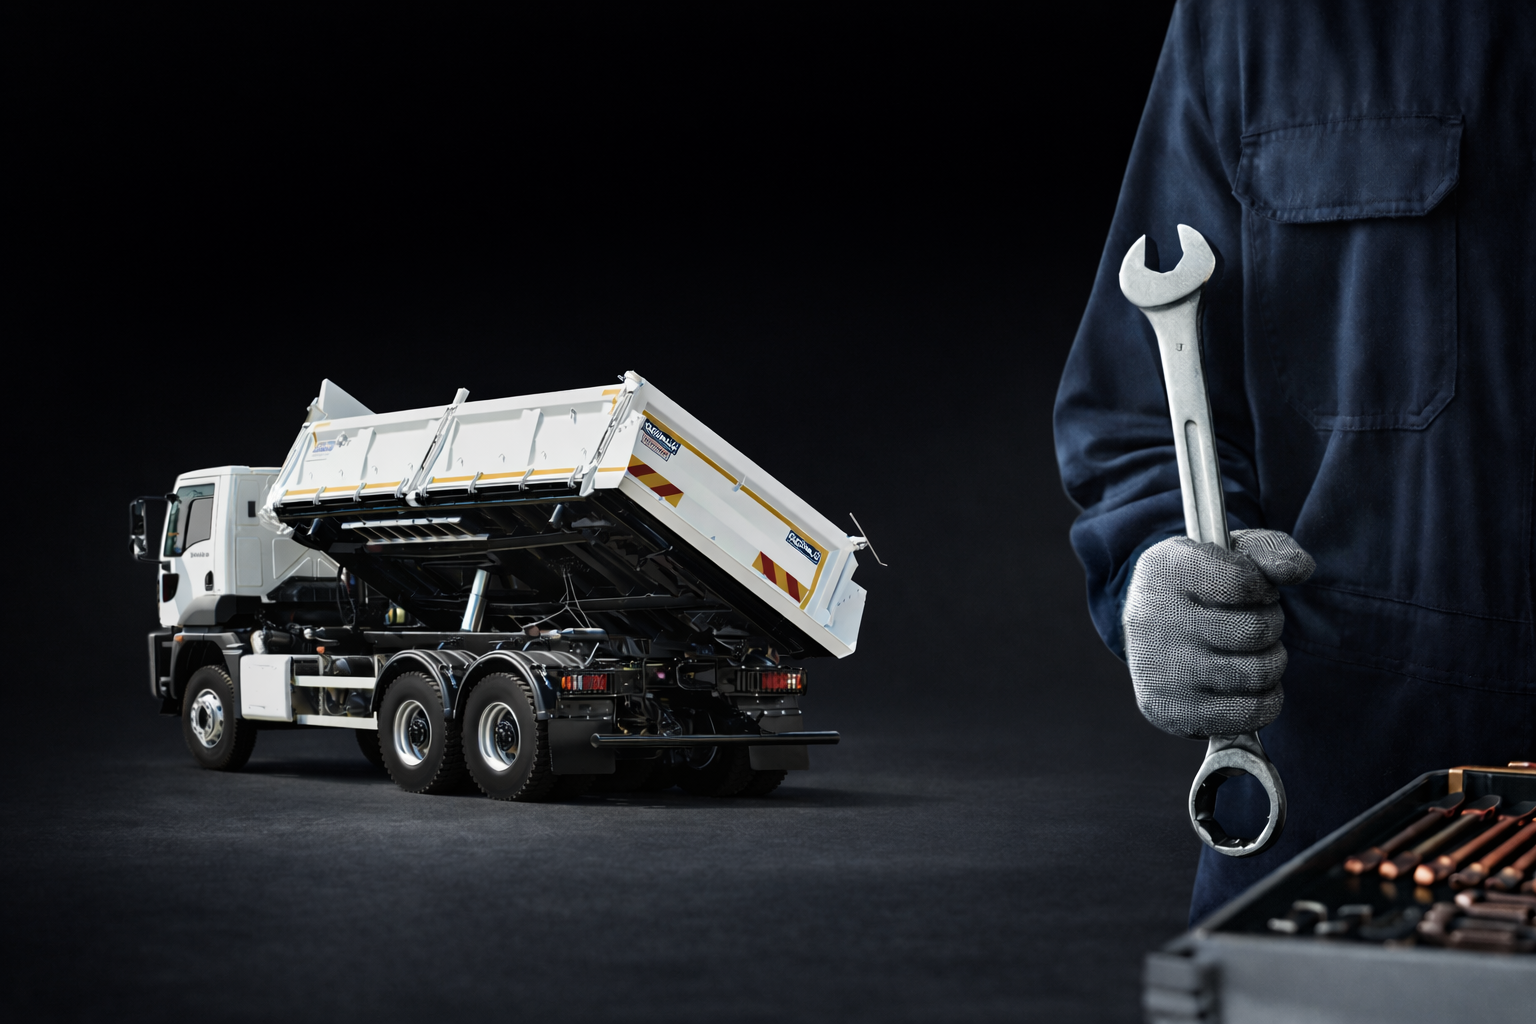
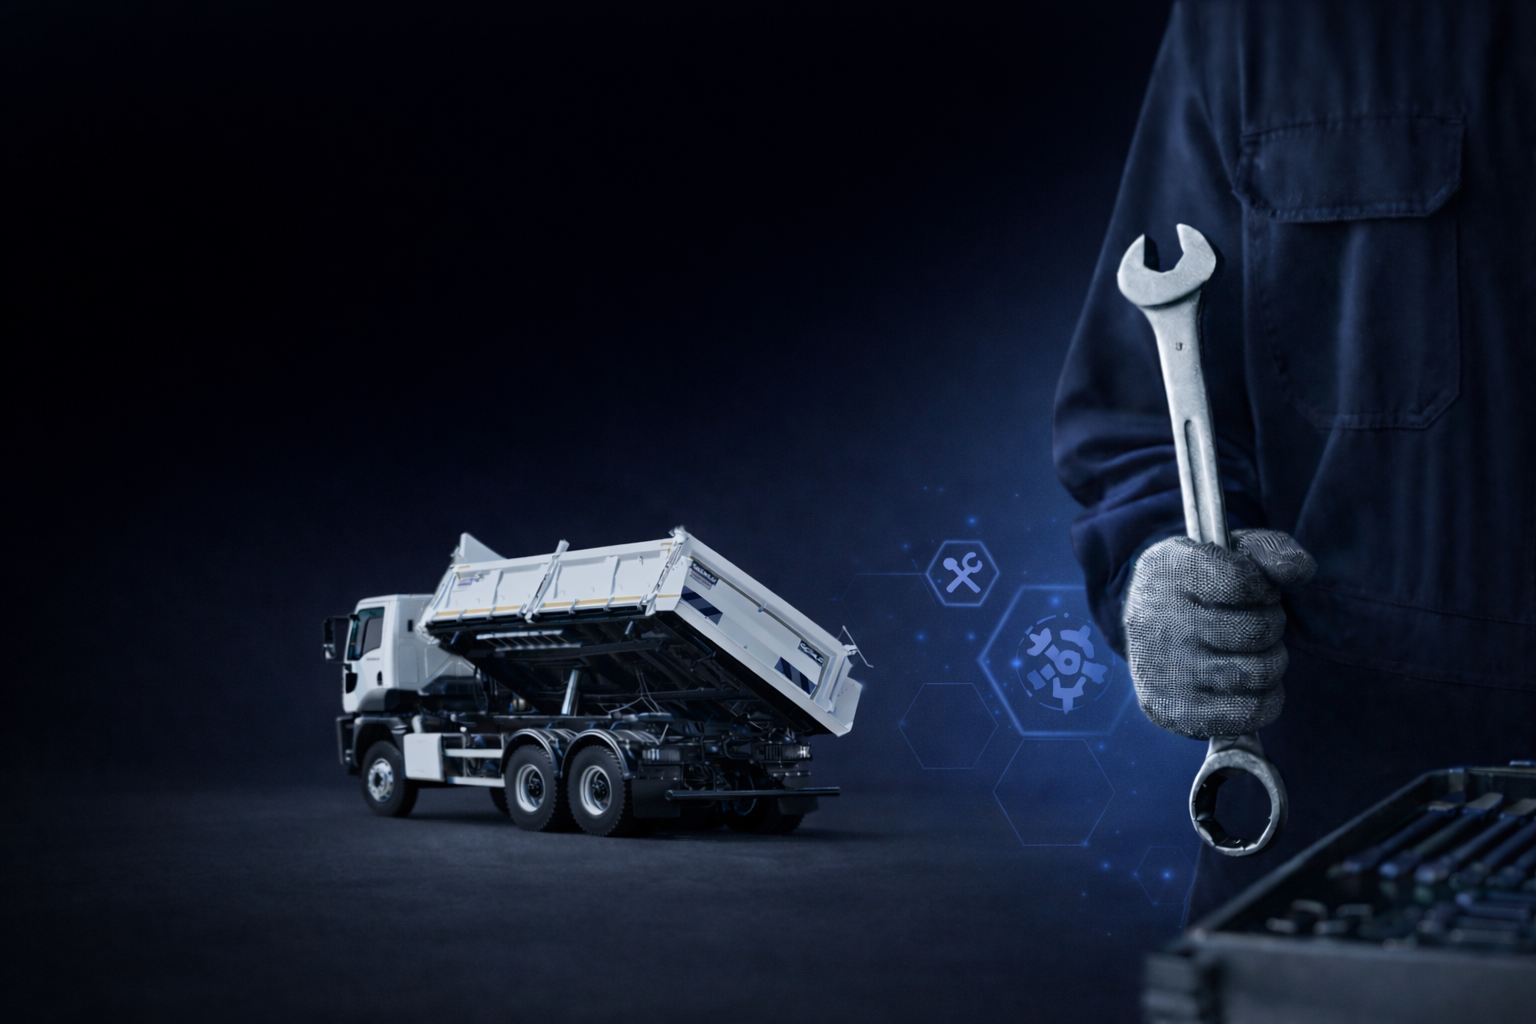
feat: implement new after-sales page including hero, document library, and services grid components.

diff --git a/src/components/after-sales/DocumentLibrary.tsx b/src/components/after-sales/DocumentLibrary.tsx
@@ -1,8 +1,9 @@
 'use client';
 
 import { motion } from 'framer-motion';
-import { FileText, Download, BookOpen, FileCheck } from 'lucide-react';
+import { FileText, Download, BookOpen, Search, ArrowRight } from 'lucide-react';
 import Link from 'next/link';
+import { useState } from 'react';
 
 const documents = [
     {
@@ -40,88 +41,99 @@ const documents = [
 ];
 
 export default function DocumentLibrary() {
+    const [searchTerm, setSearchTerm] = useState('');
+
+    const filteredDocuments = documents.filter(doc =>
+        doc.title.toLowerCase().includes(searchTerm.toLowerCase()) ||
+        doc.desc.toLowerCase().includes(searchTerm.toLowerCase())
+    );
+
     return (
-        <section className="w-full max-w-[1600px] mx-auto mt-8">
+        <section className="w-full max-w-[1600px] mx-auto py-20 px-6">
             <motion.div
                 initial={{ opacity: 0, y: 40 }}
                 whileInView={{ opacity: 1, y: 0 }}
                 viewport={{ once: true }}
-                className="bg-[#F5F5F7] rounded-[2.5rem] p-8 md:p-16"
+                className="bg-[#F5F5F7] rounded-[3rem] p-8 md:p-16 relative overflow-hidden"
             >
-                <div className="mb-12">
-                    <h2 className="text-3xl md:text-5xl font-bold text-black mb-6">
-                        TEKNİK <span className="text-black">DOKÜMANLAR</span>
-                    </h2>
-                    <p className="text-black/70 max-w-2xl text-lg">
-                        Ürünlerinizden maksimum verim almanız için hazırladığımız kullanım kılavuzları ve teknik dokümanlara buradan ulaşabilirsiniz.
-                    </p>
+                {/* Decorative Elements */}
+                <div className="absolute top-0 right-0 w-96 h-96 bg-gray-200 rounded-full blur-[100px] -translate-y-1/2 translate-x-1/2 opacity-50" />
+
+                <div className="flex flex-col md:flex-row md:items-end justify-between mb-16 relative z-10 gap-8">
+                    <div className="max-w-xl">
+                        <div className="inline-block text-sm font-bold text-[#000552]/60 mb-4 tracking-wider uppercase">Bilgi Bankası</div>
+                        <h2 className="text-4xl md:text-5xl font-black text-[#000552] mb-6 tracking-tight">
+                            TEKNİK <span className="text-transparent bg-clip-text bg-gradient-to-r from-[#000552] to-blue-600">DOKÜMANLAR</span>
+                        </h2>
+                        <p className="text-gray-500 text-lg leading-relaxed">
+                            Ürünlerinizden maksimum verim almanız için hazırladığımız kullanım kılavuzları ve teknik dokümanlara buradan ulaşabilirsiniz.
+                        </p>
+                    </div>
+
+                    {/* Search Bar */}
+                    <div className="w-full md:w-auto relative group">
+                        <div className="absolute left-4 top-1/2 -translate-y-1/2 text-gray-400 group-focus-within:text-[#000552] transition-colors">
+                            <Search size={20} />
+                        </div>
+                        <input
+                            type="text"
+                            placeholder="Doküman ara..."
+                            value={searchTerm}
+                            onChange={(e) => setSearchTerm(e.target.value)}
+                            className="w-full md:w-80 bg-white border border-gray-200 rounded-2xl py-4 pl-12 pr-6 text-[#000552] placeholder-gray-400 focus:outline-none focus:ring-4 focus:ring-[#000552]/10 transition-all shadow-sm"
+                        />
+                    </div>
                 </div>
 
-                <div className="grid grid-cols-1 md:grid-cols-2 lg:grid-cols-4 gap-6">
-                    {documents.map((doc, index) => (
+                <div className="grid grid-cols-1 md:grid-cols-2 lg:grid-cols-4 gap-6 relative z-10">
+                    {filteredDocuments.map((doc, index) => (
                         <motion.div
                             key={doc.id}
                             initial={{ opacity: 0, y: 20 }}
                             whileInView={{ opacity: 1, y: 0 }}
                             viewport={{ once: true }}
                             transition={{ delay: index * 0.1 }}
-                            className="group"
+                            className="bg-white rounded-[2rem] p-2 hover:shadow-2xl hover:shadow-[#000552]/10 transition-all duration-500 group"
                         >
-                            {doc.type === 'pdf' ? (
-                                <div className="relative h-full bg-white border border-black/5 rounded-2xl p-6 hover:shadow-xl transition-all duration-300 flex flex-col group-hover:-translate-y-2">
-                                    <div className="w-14 h-18 bg-gradient-to-br from-red-500 to-red-700 rounded-xl shadow-lg mb-6 flex items-center justify-center relative overflow-hidden">
-                                        <BookOpen className="text-white relative z-10" size={28} />
-                                        <div className="absolute bottom-1 right-1 text-[8px] text-white/70 font-bold">PDF</div>
+                            <div className="bg-gray-50 rounded-[1.5rem] p-6 h-full flex flex-col border border-transparent group-hover:border-gray-100 transition-colors">
+                                {/* Icon & Type Badge */}
+                                <div className="flex justify-between items-start mb-6">
+                                    <div className={`w-12 h-12 rounded-xl flex items-center justify-center shadow-lg ${doc.type === 'pdf' ? 'bg-gradient-to-br from-red-500 to-red-600' : 'bg-gradient-to-br from-blue-500 to-blue-600'}`}>
+                                        {doc.type === 'pdf' ? <BookOpen size={20} className="text-white" /> : <FileText size={20} className="text-white" />}
                                     </div>
-
-                                    <h3 className="text-lg font-bold text-black mb-2 group-hover:text-primary transition-colors">
-                                        {doc.title}
-                                    </h3>
-                                    <p className="text-sm text-black/60 mb-6 flex-grow leading-relaxed">
-                                        {doc.desc}
-                                    </p>
-
-                                    <div className="flex items-center justify-between pt-4 border-t border-black/5">
-                                        <span className="text-xs text-black/40 font-mono">{doc.size}</span>
-                                        <Link
-                                            href={doc.path}
-                                            target="_blank"
-                                            className="flex items-center gap-2 text-sm font-bold text-black hover:text-primary transition-colors"
-                                        >
-                                            <Download size={16} />
-                                            İNDİR
-                                        </Link>
-                                    </div>
+                                    <span className="text-[10px] font-bold uppercase tracking-wider text-gray-400 bg-white px-3 py-1 rounded-full shadow-sm">
+                                        {doc.type}
+                                    </span>
                                 </div>
-                            ) : (
-                                <div className="relative h-full bg-white border border-black/5 rounded-2xl p-6 hover:shadow-xl transition-all duration-300 flex flex-col group-hover:-translate-y-2">
-                                    <div className="flex items-start justify-between mb-6">
-                                        <div className="p-3 bg-blue-100 text-blue-600 rounded-xl">
-                                            <FileText size={24} />
-                                        </div>
-                                        <span className="text-xs font-bold text-black/40 bg-black/5 px-2 py-1 rounded">DOCX</span>
-                                    </div>
 
-                                    <h3 className="text-lg font-bold text-black mb-2 group-hover:text-primary transition-colors">
-                                        {doc.title}
-                                    </h3>
-                                    <p className="text-sm text-black/60 mb-6 flex-grow">
-                                        {doc.desc}
-                                    </p>
+                                <h3 className="text-lg font-bold text-[#000552] mb-3 line-clamp-2 min-h-[3.5rem] group-hover:text-blue-600 transition-colors">
+                                    {doc.title}
+                                </h3>
 
-                                    <Link
-                                        href={doc.path}
-                                        target="_blank"
-                                        className="w-full py-3 rounded-xl border border-black/10 flex items-center justify-center gap-2 text-sm font-bold text-black hover:bg-black/5 transition-all"
-                                    >
-                                        <FileCheck size={16} />
-                                        Görüntüle
-                                    </Link>
-                                </div>
-                            )}
+                                <p className="text-sm text-gray-500 mb-8 line-clamp-3 leading-relaxed flex-grow">
+                                    {doc.desc}
+                                </p>
+
+                                <Link
+                                    href={doc.path}
+                                    target="_blank"
+                                    className="w-full py-4 rounded-xl bg-white text-[#000552] text-sm font-bold flex items-center justify-center gap-2 shadow-sm hover:bg-[#000552] hover:text-white transition-all duration-300 group/btn"
+                                >
+                                    {doc.type === 'pdf' ? <Download size={16} /> : <FileText size={16} />}
+                                    <span>İNDİR</span>
+                                    <ArrowRight size={14} className="opacity-0 -translate-x-2 group-hover/btn:opacity-100 group-hover/btn:translate-x-0 transition-all" />
+                                </Link>
+                            </div>
                         </motion.div>
                     ))}
                 </div>
+
+                {filteredDocuments.length === 0 && (
+                    <div className="text-center py-20 text-gray-400">
+                        <Search size={48} className="mx-auto mb-4 opacity-20" />
+                        <p>Aradığınız kriterlere uygun doküman bulunamadı.</p>
+                    </div>
+                )}
             </motion.div>
         </section>
     );

diff --git a/src/components/after-sales/AfterSalesHero.tsx b/src/components/after-sales/AfterSalesHero.tsx
@@ -2,49 +2,72 @@
 
 import { motion } from 'framer-motion';
 import Image from 'next/image';
+import { ChevronDown, Wrench, ShieldCheck, ArrowRight } from 'lucide-react';
+import Link from 'next/link';
 
 export default function AfterSalesHero() {
     return (
-        <section className="relative w-full h-[600px] md:h-[700px] rounded-[2.5rem] overflow-hidden mb-12 group mx-auto max-w-full shadow-2xl">
-            {/* Background Image */}
+        <section className="relative w-full h-[85vh] min-h-[600px] rounded-[2.5rem] overflow-hidden mx-auto max-w-full shadow-2xl group">
+            {/* Background with Zoom Effect */}
             <div className="absolute inset-0 z-0">
                 <Image
                     src="/images/satis-sonrasi-hero.png"
                     alt="Satış Sonrası Hizmetler"
                     fill
-                    className="object-cover object-center group-hover:scale-105 transition-transform duration-700"
+                    className="object-cover object-center group-hover:scale-105 transition-transform duration-[2s] ease-out leading-none"
                     priority
                 />
+                <div className="absolute inset-0 bg-gradient-to-r from-[#000552]/95 via-[#000552]/50 to-transparent mix-blend-multiply" />
+                <div className="absolute inset-0 bg-gradient-to-t from-[#000552] via-transparent to-transparent opacity-60" />
             </div>
 
-            {/* Content - Aligned to Left */}
-            <div className="relative h-full flex flex-col justify-start items-start px-6 pt-24 md:pt-32 md:px-16 lg:px-24">
-                {/* Mobile Watermark */}
-                <div className="absolute top-10 left-6 md:hidden z-0 pointer-events-none select-none">
-                    <span className="text-6xl font-black text-white/5 leading-none tracking-tighter whitespace-nowrap">
-                        ÖZÜNLÜ
-                    </span>
-                </div>
-
-                <div className="max-w-3xl relative text-left z-10 w-full">
-                    {/* Desktop Watermark */}
-                    <div className="hidden md:block absolute -top-24 -left-10 z-0 pointer-events-none select-none">
-                        <span className="md:text-[12rem] font-black text-white/5 leading-none tracking-tighter whitespace-nowrap">
-                            ÖZÜNLÜ
-                        </span>
+            {/* Content */}
+            <div className="relative h-full flex flex-col justify-center px-6 md:px-16 lg:px-24">
+                <motion.div
+                    initial={{ opacity: 0, y: 30 }}
+                    animate={{ opacity: 1, y: 0 }}
+                    transition={{ duration: 0.8, ease: "easeOut" }}
+                    className="max-w-4xl"
+                >
+                    <div className="inline-flex items-center gap-2 px-4 py-2 rounded-full bg-white/10 backdrop-blur-md border border-white/20 text-white text-sm font-bold mb-8">
+                        <ShieldCheck size={16} className="text-white" />
+                        <span className="tracking-wider uppercase">ÖZÜNLÜ GÜVENCESİ</span>
                     </div>
 
-                    <motion.h1
-                        initial={{ opacity: 0, x: 20 }}
-                        animate={{ opacity: 1, x: 0 }}
-                        transition={{ delay: 0.2, duration: 0.8 }}
-                        className="relative z-10 text-4xl md:text-6xl lg:text-7xl font-bold text-white mb-4 md:mb-6 leading-[0.95] tracking-tight"
-                    >
-                        SATIŞ SONRASI <br />
-                        <span className="text-[#000552]">HİZMETLER</span>
-                    </motion.h1>
-                </div>
+                    <h1 className="text-4xl md:text-5xl lg:text-6xl font-black text-white mb-8 leading-[0.9] tracking-tighter">
+                        YOLUN HER <br />
+                        ANINDA
+                        <span className="block mt-2">
+                            YANINIZDAYIZ
+                        </span>
+                    </h1>
+
+                    <p className="text-lg md:text-lg text-gray-200 max-w-2xl font-light leading-relaxed mb-10">
+                        Sadece satışta değil, satış sonrasında da en büyük destekçiniziz.
+                        7/24 teknik servis, orijinal yedek parça ve uzman kadromuzla işiniz asla yarım kalmaz.
+                    </p>
+
+                    <div className="flex flex-col sm:flex-row gap-4">
+                        <Link
+                            href="/iletisim"
+                            className="inline-flex items-center justify-center gap-3 bg-white/10 backdrop-blur-md border border-white/20 text-white px-8 py-5 rounded-2xl font-bold text-lg hover:bg-white/20 transition-all group/contact"
+                        >
+                            Bize Ulaşın
+                            <ArrowRight size={20} className="group-hover/contact:translate-x-1 transition-transform" />
+                        </Link>
+                    </div>
+                </motion.div>
             </div>
+
+            {/* Scroll Indicator */}
+            <motion.div
+                initial={{ opacity: 0 }}
+                animate={{ opacity: 1 }}
+                transition={{ delay: 1, duration: 1 }}
+                className="absolute bottom-10 left-1/2 -translate-x-1/2 text-white/50 animate-bounce"
+            >
+                <ChevronDown size={32} />
+            </motion.div>
         </section>
     );
 }

diff --git a/src/components/after-sales/ServicesGrid.tsx b/src/components/after-sales/ServicesGrid.tsx
@@ -1,0 +1,77 @@
+'use client';
+
+import { motion } from 'framer-motion';
+import { Wrench, Shield, Clock, Cog, Phone, Headphones } from 'lucide-react';
+
+const services = [
+    {
+        icon: Wrench,
+        title: 'Yetkili Servis Ağı',
+        description: 'Türkiye genelinde yaygın yetkili servis noktalarımızla, aracınızın bakım ve onarım işlemlerini uzman ellere emanet edin.',
+        color: 'bg-blue-500'
+    },
+    {
+        icon: Cog,
+        title: 'Orijinal Yedek Parça',
+        description: 'Aracınızın performansını ve ömrünü korumak için %100 orijinal Özünlü yedek parçalarını tercih edin. Hızlı tedarik garantisi.',
+        color: 'bg-orange-500'
+    },
+    {
+        icon: Shield,
+        title: 'Garanti Kapsamı',
+        description: 'Üretim hatalarına karşı kapsamlı garanti paketlerimizle yatırımlarınızı koruma altına alıyoruz. Güvenle sürün.',
+        color: 'bg-green-500'
+    },
+    {
+        icon: Headphones,
+        title: '7/24 Teknik Destek',
+        description: 'Yolda kaldığınızda veya teknik bir sorunda, uzman destek ekibimiz bir telefon uzağınızda. Kesintisiz hizmet.',
+        color: 'bg-purple-500'
+    }
+];
+
+export default function ServicesGrid() {
+    return (
+        <section id="hizmetler" className="py-20 px-6">
+            <div className="max-w-[1600px] mx-auto">
+                <div className="flex flex-col md:flex-row md:items-end justify-between mb-12 gap-6">
+                    <div>
+                        <h2 className="text-4xl md:text-5xl font-black text-[#000552] mb-4 tracking-tight">
+                            HİZMETLERİMİZ
+                        </h2>
+                        <p className="text-gray-500 text-lg max-w-xl">
+                            Aracınızın değerini koruyan ve operasyonel verimliliğinizi artıran profesyonel çözümler.
+                        </p>
+                    </div>
+                </div>
+
+                <div className="grid grid-cols-1 md:grid-cols-2 lg:grid-cols-4 gap-6">
+                    {services.map((service, index) => (
+                        <motion.div
+                            key={index}
+                            initial={{ opacity: 0, y: 20 }}
+                            whileInView={{ opacity: 1, y: 0 }}
+                            viewport={{ once: true }}
+                            transition={{ delay: index * 0.1 }}
+                            className="bg-white rounded-3xl p-8 border border-gray-100 hover:border-gray-300 hover:shadow-xl transition-all duration-300 group"
+                        >
+                            <div className={`w-14 h-14 ${service.color} rounded-2xl flex items-center justify-center text-white mb-6 transform group-hover:scale-110 group-hover:rotate-3 transition-all duration-300 shadow-lg`}>
+                                <service.icon size={28} />
+                            </div>
+
+                            <h3 className="text-xl font-bold text-[#000552] mb-3 group-hover:text-primary transition-colors">
+                                {service.title}
+                            </h3>
+
+                            <p className="text-gray-500 leading-relaxed text-sm">
+                                {service.description}
+                            </p>
+
+
+                        </motion.div>
+                    ))}
+                </div>
+            </div>
+        </section>
+    );
+}

diff --git a/src/app/satis-sonrasi/page.tsx b/src/app/satis-sonrasi/page.tsx
@@ -1,4 +1,5 @@
 import AfterSalesHero from '@/components/after-sales/AfterSalesHero';
+import ServicesGrid from '@/components/after-sales/ServicesGrid';
 import DocumentLibrary from '@/components/after-sales/DocumentLibrary';
 import MapPreview from '@/components/home/MapPreview';
 
@@ -6,6 +7,7 @@ export default function AfterSalesPage() {
     return (
         <main className="min-h-screen bg-white pt-[50px] pb-12 md:pt-[60px] md:pb-24 px-4 sm:px-6">
             <AfterSalesHero />
+            <ServicesGrid />
             <DocumentLibrary />
             <MapPreview />
         </main>
